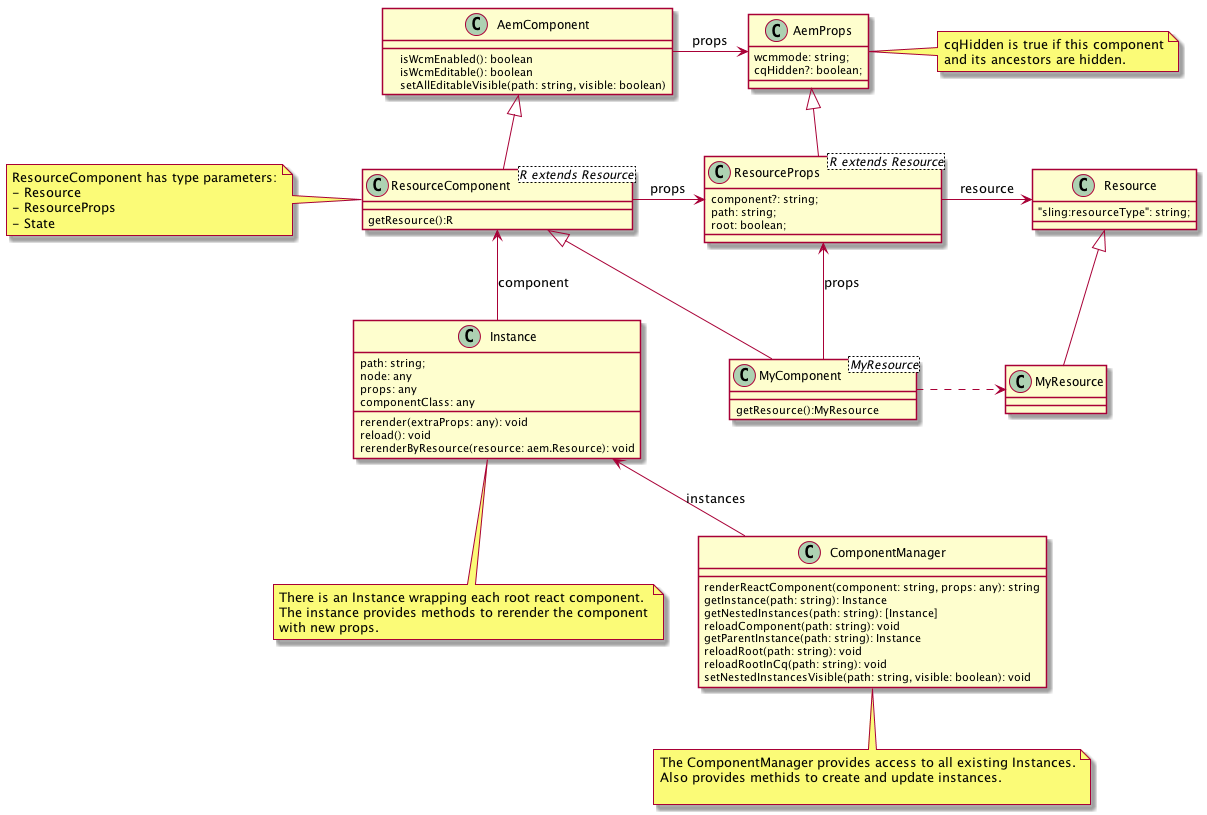
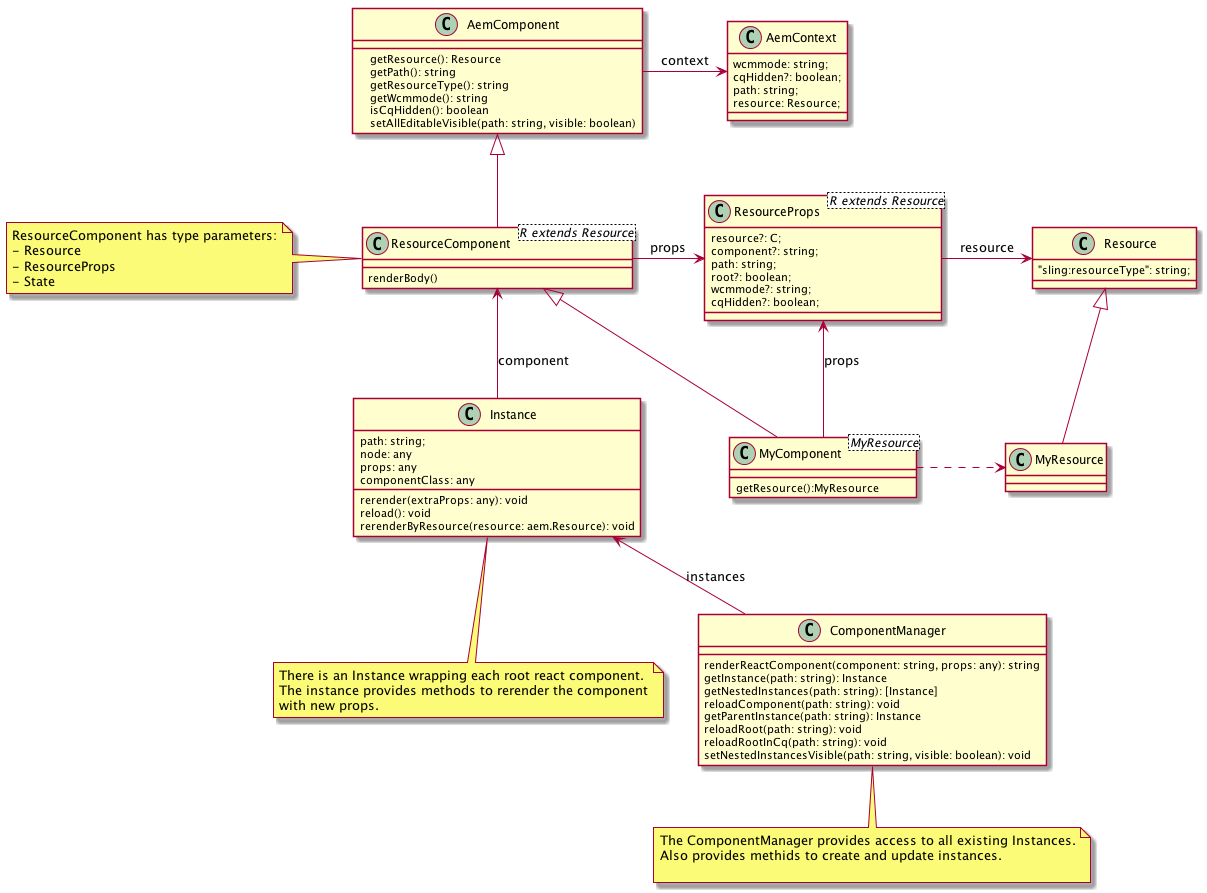
moved cqHidden to context

diff --git a/aem.tsx b/aem.tsx
@@ -29,29 +29,33 @@ export class ResourceUtils {
 }
 
 
-export interface AemProps {
-    cqHidden?: boolean;
-}
-
 /**
  * Provides base functionality for components that are
  */
-export class AemComponent<P extends AemProps, S> extends React.Component<P, S> {
+export class AemComponent<P, S> extends React.Component<P, S> {
 
 
     public static contextTypes: any = {
-        wcmmode: React.PropTypes.string, path: React.PropTypes.string, resource: React.PropTypes.any
+        wcmmode: React.PropTypes.string, //
+        path: React.PropTypes.string, //
+        resource: React.PropTypes.any, //
+        cqHidden: React.PropTypes.bool
     };
 
     public context: {
         wcmmode: string;
         path: string;
         resource: any;
+        cqHidden: boolean;
     };
 
 
     public getWcmmode(): string {
         return this.context.wcmmode;
+    }
+
+    public isCqHidden(): boolean {
+        return this.context.cqHidden;
     }
 
     public getPath(): string {
@@ -81,7 +85,7 @@ export class AemComponent<P extends AemProps, S> extends React.Component<P, S> {
 
 }
 
-export interface IncludeProps extends AemProps {
+export interface IncludeProps {
     path: string;
     resourceType: string;
     hidden?: boolean;
@@ -113,12 +117,13 @@ export interface Resource {
     "sling:resourceType": string;
 }
 
-export interface ResourceProps<C> extends AemProps {
+export interface ResourceProps<C> {
     resource?: C;
     component?: string;
     path: string;
     root?: boolean;
     wcmmode?: string;
+    cqHidden?: boolean;
 }
 
 
@@ -128,22 +133,28 @@ export interface ResourceProps<C> extends AemProps {
 export abstract class ResourceComponent<C extends Resource, P extends ResourceProps<any>, S> extends AemComponent<P, S> {
 
 
+    public static childContextTypes: any = {
+        wcmmode: React.PropTypes.string,//
+        path: React.PropTypes.string, //
+        resource: React.PropTypes.any, //
+        cqHidden: React.PropTypes.bool
+    };
+
+
     public getChildContext(): any {
         return {
-            resource: this.getResource(),
-            wcmmode: this.props.wcmmode || this.context.wcmmode,
-            path: this.getPath()
+            resource: this.getResource(), wcmmode: this.getWcmmode(), path: this.getPath(), cqHidden: this.isCqHidden()
         };
 
     }
 
-    public static childContextTypes: any = {
-        wcmmode: React.PropTypes.string, path: React.PropTypes.string, resource: React.PropTypes.any
-    };
-
 
     public getWcmmode(): string {
         return this.props.wcmmode || this.context.wcmmode;
+    }
+
+    public isCqHidden(): boolean {
+        return this.props.cqHidden || this.context.cqHidden;
     }
 
     public getPath(): string {
@@ -218,7 +229,7 @@ export abstract class ResourceComponent<C extends Resource, P extends ResourcePr
 }
 
 
-export interface ScriptProps extends AemProps {
+export interface ScriptProps {
     js: string;
 }
 
@@ -228,7 +239,7 @@ export class Script extends AemComponent<ScriptProps, any> {
     }
 }
 
-export interface CqEditProps extends AemProps {
+export interface CqEditProps {
     path: string;
     resourceType: string;
     dialog?: string;
@@ -276,7 +287,7 @@ export class Cq {
 
 }
 
-export interface EditMarkerProps extends AemProps {
+export interface EditMarkerProps {
     label?: string;
 }
 

diff --git a/include.tsx b/include.tsx
@@ -2,7 +2,7 @@ import * as aem from "./aem";
 import * as React from "react";
 import CqUtils from "./CqUtils";
 
-export interface IncludeProps extends aem.AemProps {
+export interface IncludeProps  {
     path: string;
     resourceType: string;
     element?: string;
